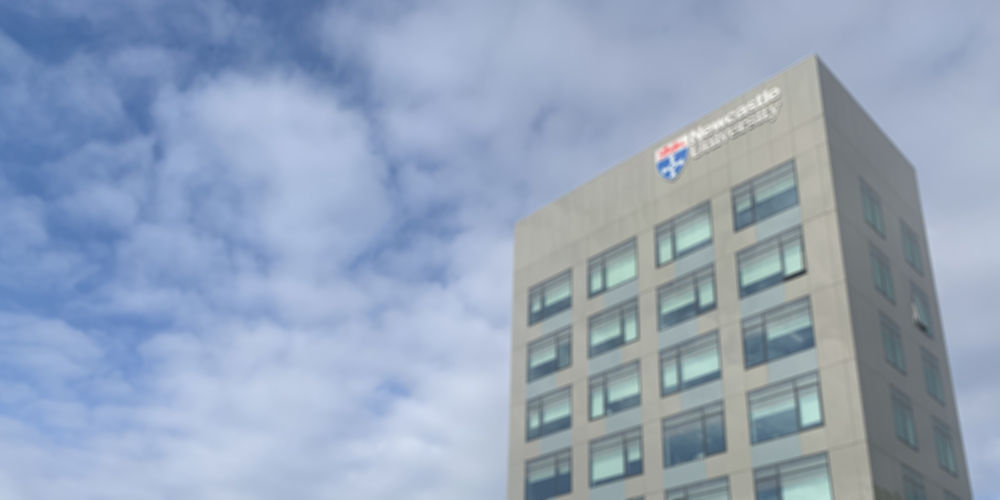
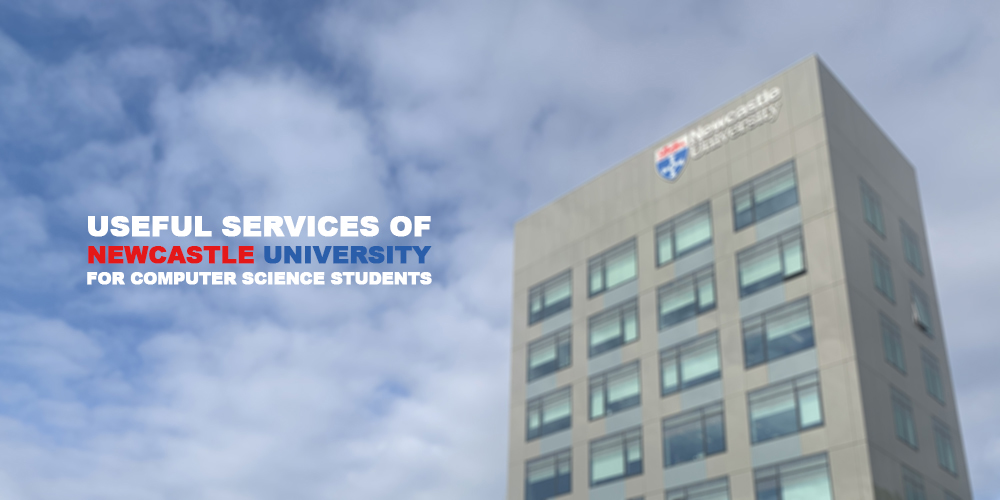
Added splash screen when launching app. Updated links and code. Minor changes to buttons.

Changed region(s): [[0.062, 0.42, 0.434, 0.57]]

diff --git a/Allspeccs/specification4/Spec4.py b/Allspeccs/specification4/Spec4.py
@@ -1,32 +1,23 @@
 import sys
+import time
 from PyQt5.QtWidgets import QApplication, QWidget, QMainWindow, QLabel, QDialog
 from PyQt5.QtGui import QPainter, QColor, QPen, QIcon, QPixmap
 from PyQt5.QtCore import Qt, pyqtSlot
-from PyQt5 import QtCore, QtGui, QtWidgets
 from PyQt5.QtWidgets import *
-import random
 import webbrowser
 
 class App(QMainWindow):
 
     def __init__(self):
         super().__init__()
-        self.title = 'Shortcuts for Newcastle University CS Services'
-        self.left = 500
-        self.top = 500
-        self.width = 1000
-        self.height = 500
         self.initUI()
 
     def initUI(self):
-        self.setWindowTitle(self.title)
-        self.setWindowIcon(QIcon('NUicon.png'))
-        self.setGeometry(self.left, self.top, self.width, self.height)
 
-        self.setAutoFillBackground(True)
-        p = self.palette()
-        p.setColor(self.backgroundRole(), Qt.white)
-        self.setPalette(p)
+        self.resize(1000,500)
+        self.center()
+        self.setWindowTitle('Shortcuts of useful services for Computer Science students')
+        self.setWindowIcon(QIcon('NUicon.png'))
 
         self.label = QLabel(self)
         self.label.setPixmap(QPixmap('BackGround2.jpg'))
@@ -41,66 +32,66 @@ class App(QMainWindow):
         button1.clicked.connect(open_webbrowser1)
 
         def open_webbrowser2():
-            webbrowser.open('https://nucode.ncl.ac.uk/users/sign_in')
+            webbrowser.open('https://portfolio.ncl.ac.uk/accounts/login/')
 
-        button2 = QPushButton('NUCODE', self)
-        button2.setToolTip('GitHub for students (GitLab)')
+        button2 = QPushButton('PORTFOLIO', self)
+        button2.setToolTip('Your student\'s portfolio')
         button2.setGeometry(60, 140, 150, 60)
         button2.clicked.connect(open_webbrowser2)
 
         def open_webbrowser3():
-            webbrowser.open('https://ness.ncl.ac.uk')
+            webbrowser.open('https://nucode.ncl.ac.uk/users/sign_in')
 
-        button3 = QPushButton('NESS', self)
-        button3.setToolTip('Place for submitting your coursework')
+        button3 = QPushButton('NUCODE', self)
+        button3.setToolTip('GitHub for students (GitLab)')
         button3.setGeometry(60, 220, 150, 60)
         button3.clicked.connect(open_webbrowser3)
 
         def open_webbrowser4():
-            webbrowser.open('https://ras.ncl.ac.uk')
+            webbrowser.open('https://ness.ncl.ac.uk')
 
-        button4 = QPushButton('RAS', self)
-        button4.setToolTip('Remote Application Service')
+        button4 = QPushButton('NESS', self)
+        button4.setToolTip('Place for submitting your coursework')
         button4.setGeometry(60, 300, 150, 60)
         button4.clicked.connect(open_webbrowser4)
 
         def open_webbrowser5():
-            webbrowser.open('https://portfolio.ncl.ac.uk/accounts/login/')
+            webbrowser.open('https://ras.ncl.ac.uk')
 
-        button5 = QPushButton('PORTFOLIO', self)
-        button5.setToolTip('Your student portfolio')
+        button5 = QPushButton('RAS', self)
+        button5.setToolTip('Remote Application Service')
         button5.setGeometry(60, 380, 150, 60)
         button5.clicked.connect(open_webbrowser5)
 
         def open_webbrowser6():
-            webbrowser.open('https://gateway.ncl.ac.uk/idp/profile/SAML2/Redirect/SSO?execution=e8s1')
+            webbrowser.open('') # UPDATE LIB LINK!
 
         button6 = QPushButton('LIBRARY', self)
-        button6.setToolTip('University library portal')
+        button6.setToolTip('University Library')
         button6.setGeometry(230, 60, 150, 60)
         button6.clicked.connect(open_webbrowser6)
 
         def open_webbrowser7():
-            webbrowser.open('')
+            webbrowser.open('https://office365.ncl.ac.uk')
 
-        button7 = QPushButton('', self)
-        button7.setToolTip('')
+        button7 = QPushButton('EMAIL', self)
+        button7.setToolTip('Your university\'s OutLook email')
         button7.setGeometry(230, 140, 150, 60)
         button7.clicked.connect(open_webbrowser7)
 
         def open_webbrowser8():
-            webbrowser.open('')
+            webbrowser.open('https://s3p.ncl.ac.uk/Login/Index.aspx')
 
-        button8 = QPushButton('', self)
-        button8.setToolTip('')
+        button8 = QPushButton('S3P', self)
+        button8.setToolTip('Newcastle University\'s Student Self Service Portal')
         button8.setGeometry(230, 220, 150, 60)
         button8.clicked.connect(open_webbrowser8)
 
         def open_webbrowser9():
-            webbrowser.open('')
+            webbrowser.open('https://appspay.ncl.ac.uk/sport/Login')
 
-        button9 = QPushButton('', self)
-        button9.setToolTip('')
+        button9 = QPushButton('SPORT', self)
+        button9.setToolTip('Get a membership for using sport facilities')
         button9.setGeometry(230, 300, 150, 60)
         button9.clicked.connect(open_webbrowser9)
 
@@ -114,11 +105,32 @@ class App(QMainWindow):
 
         self.show()
 
+    def center(self):
+
+        qr = self.frameGeometry()
+        cp = QDesktopWidget().availableGeometry().center()
+        qr.moveCenter(cp)
+        self.move(qr.topLeft())
+
     @pyqtSlot()
     def on_click1(self):
         print('ok')
 
 if __name__ == '__main__':
+
     app = QApplication(sys.argv)
+    app.setStyle('Fusion')
+
+    splash_pix = QPixmap('BackGround1.jpg')
+    splash = QSplashScreen(splash_pix, Qt.WindowStaysOnTopHint)
+    splash.setWindowFlags(Qt.WindowStaysOnTopHint | Qt.SplashScreen)
+    splash.setEnabled(False)
+    splash.setMask(splash_pix.mask())
+    splash.show()
+    app.processEvents()
+
+    time.sleep(2)
+
     ex = App()
+    splash.finish(ex)
     sys.exit(app.exec_())
